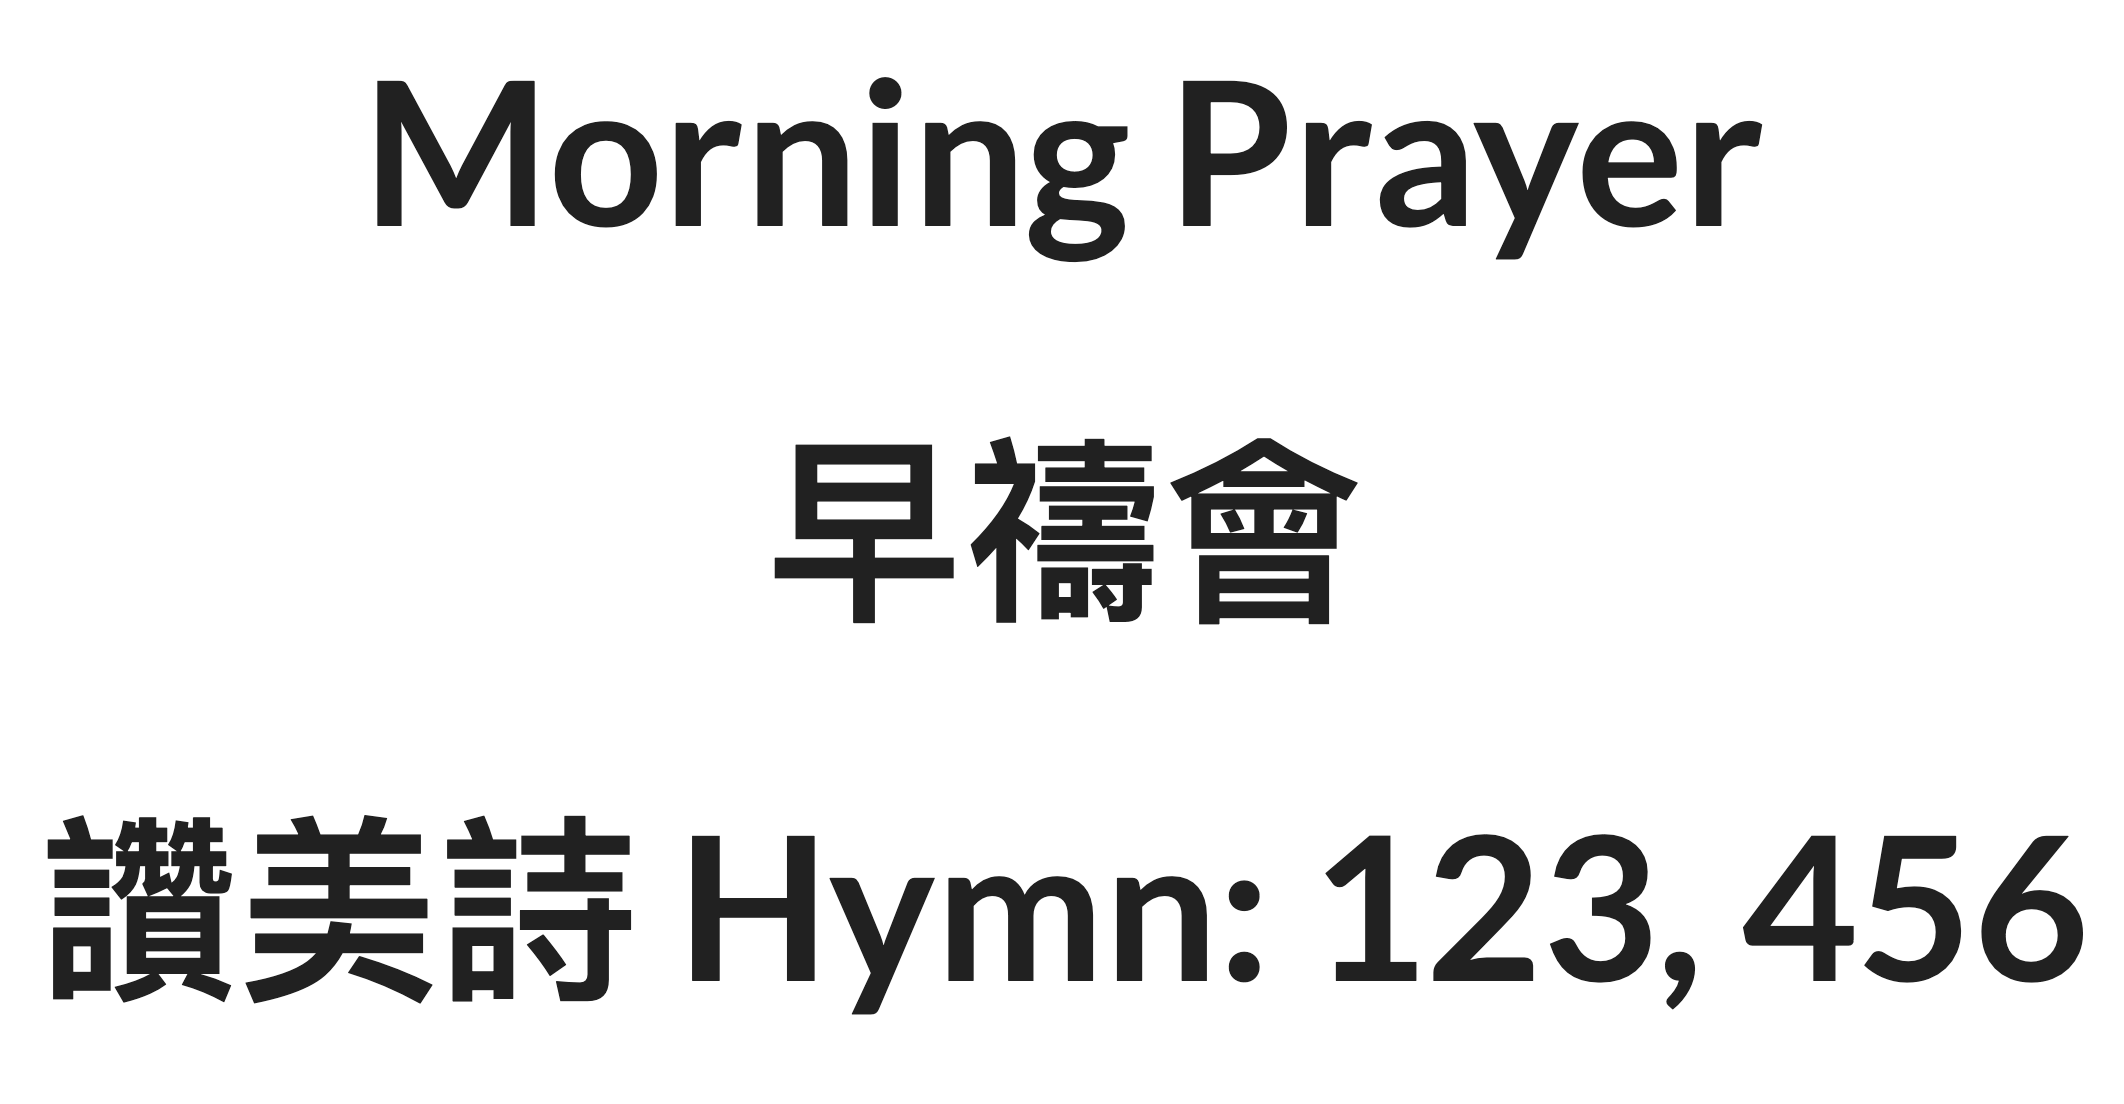
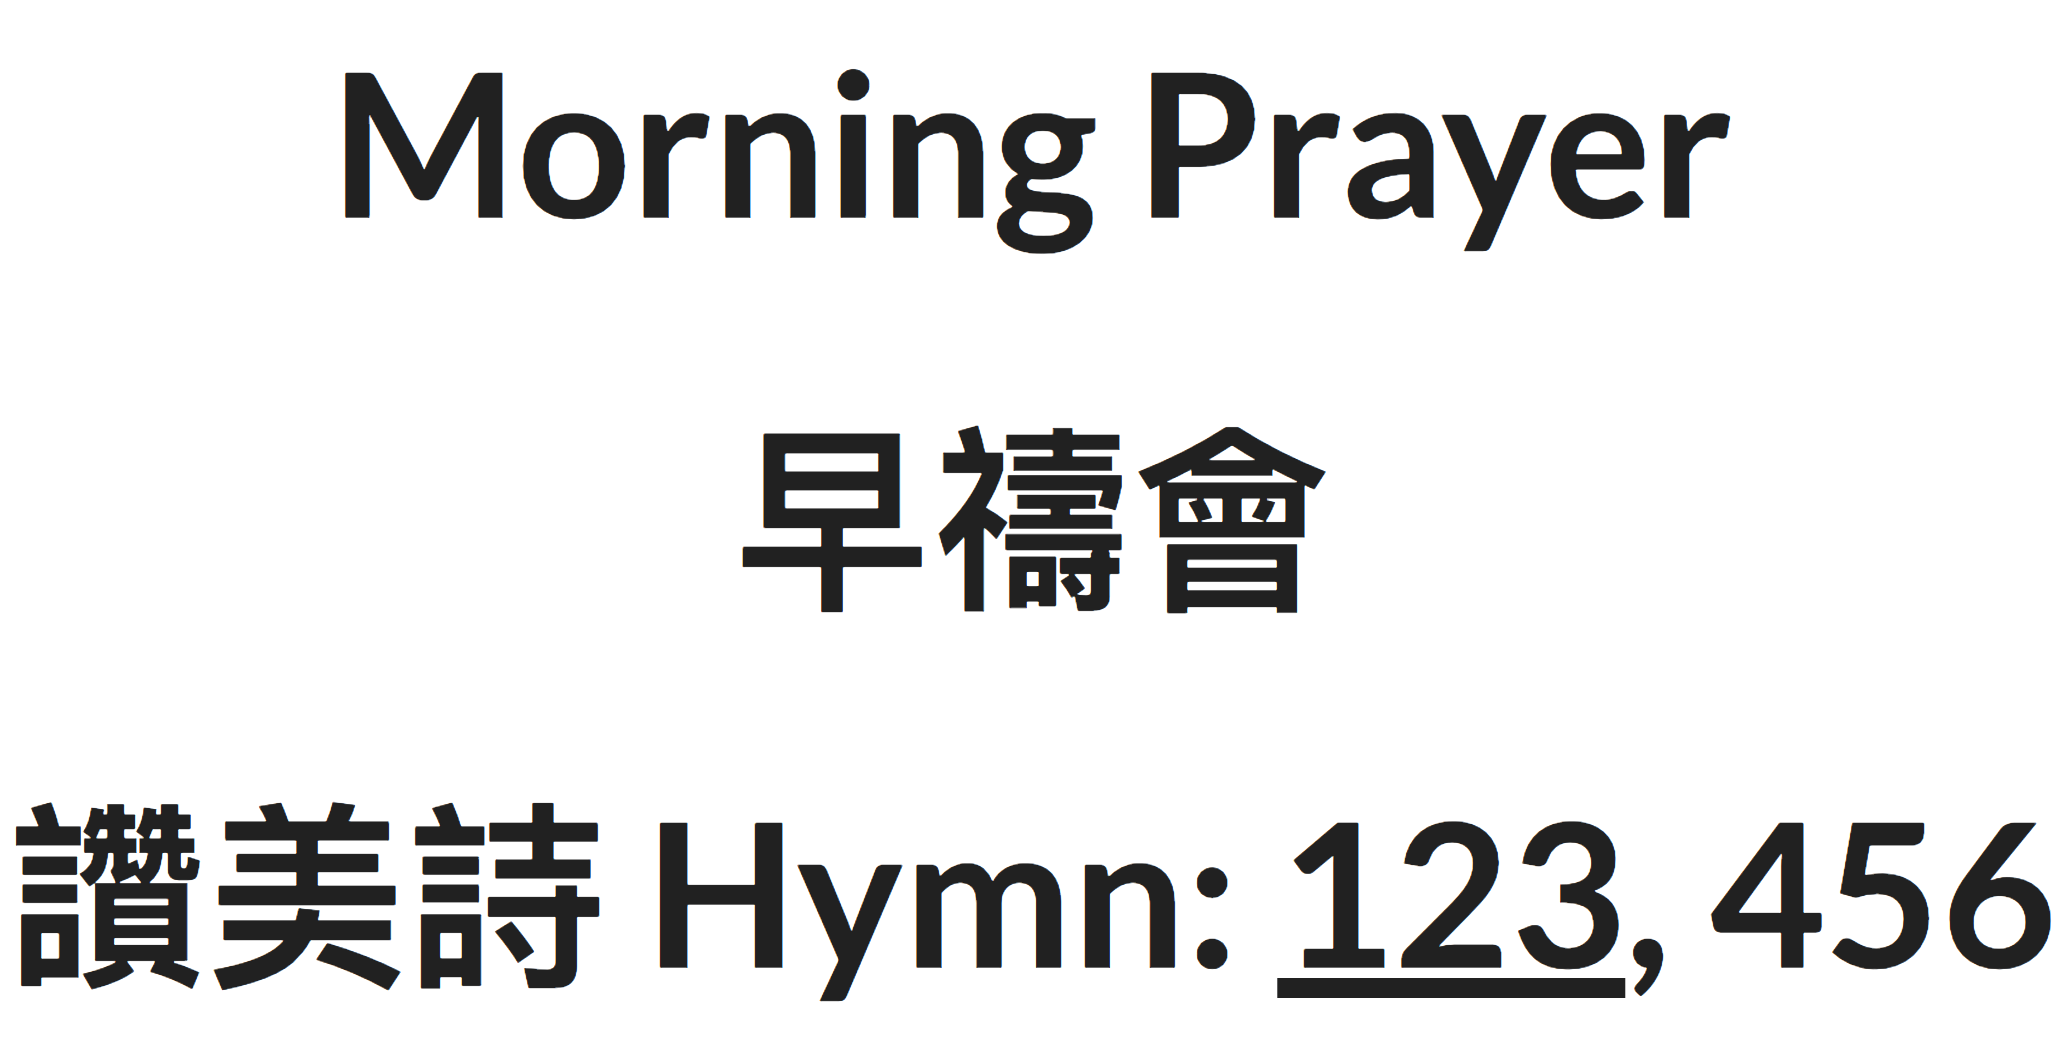
update how-to (tabs and "hymn scroll") #46

diff --git a/templates/how-to.html b/templates/how-to.html
@@ -63,12 +63,19 @@
     <h2><a id="morning-prayer" href="#">During Morning Prayer:</a></h2>
     <img class="ui floated right medium bordered rounded image" src="static/instructions/morning-prayer-button.png">
     <ol>
-      <li>Type in the <strong>hymn numbers</strong>.</li>
+      <li>Go to the "Utility" tab<img class="ui small rounded image" src="static/instructions/utility-tab.png"></li>
+      <li>Type in <strong>hymn numbers</strong> next to the button labelled "Morning Prayer".</li>
       <li>Hit the <strong>"Morning Prayer"</strong> button.</li>
-      <li>Go to the projection page to see it update live (example: <em>http://127.0.0.1:9000/toronto</em>). Otherwise hit the <img src="static/instructions/new-window.png" alt="New Window" title="New Window" style="width:90px;" align="top"> button.</li>
+      <li>Go to the projection page to see it update live (example: <em>http://127.0.0.1:9000/toronto</em>). Otherwise go back to the "Main" tab and hit the <img src="static/instructions/new-window.png" alt="New Window" title="New Window" style="width:90px;" align="top"> button.</li>
     </ol>
     <p>
       The projection page should look something like this: <img class="ui medium bordered rounded image" src="static/instructions/morning-prayer-projection.png" style="box-shadow: 0 1px 2px 0 rgba(34,36,38,.15);">
+    </p>
+    <p>
+      You can mark the current hymn with an underline by pressing on <img src="static/instructions/hymn-underline-button.png" alt="Hymn Scroll" title="Hymn Scroll" style="width:80px;" align="top">.
+    </p>
+    <p>
+      Click <img src="static/instructions/hymn-underline-button.png" alt="Hymn Scroll" title="Hymn Scroll" style="width:80px;" align="top"> multiple times to loop back to the beginning (or to have none underlined).
     </p>
 
     <h4 class="ui header center aligned">
@@ -79,12 +86,19 @@
     <h2><a id="hymn-singing" href="#">During Hymn Singing:</a></h2>
     <img class="ui floated right medium bordered rounded image" src="static/instructions/hymn-singing-button.png">
     <ol>
-      <li>Type in the <strong>hymn numbers</strong>.</li>
-      <li>Hit the <strong>"Hymns Singing"</strong> button.</li>
+      <li>Go to the "Utility" tab<img class="ui small rounded image" src="static/instructions/utility-tab.png"></li>
+      <li>Type in <strong>hymn numbers</strong> next to the button labelled "Hymn Singing".</li>
+      <li>Hit the <strong>"Hymn Singing"</strong> button.</li>
       <li>Go to the projection page to see it update live (example: <em>http://127.0.0.1:9000/toronto</em>). Otherwise hit the <img src="static/instructions/new-window.png" alt="New Window" title="New Window" style="width:90px;" align="top"> button.</li>
     </ol>
     <p>
       The projection page should look something like this: <img class="ui medium bordered rounded image" src="static/instructions/hymn-singing-projection.png" style="box-shadow: 0 1px 2px 0 rgba(34,36,38,.15);">
+    </p>
+    <p>
+      You can mark the current hymn with an underline by pressing on <img src="static/instructions/hymn-underline-button.png" alt="Hymn Scroll" title="Hymn Scroll" style="width:80px;" align="top">.
+    </p>
+    <p>
+      Click <img src="static/instructions/hymn-underline-button.png" alt="Hymn Scroll" title="Hymn Scroll" style="width:80px;" align="top"> multiple times to loop back to the beginning (or to have none underlined).
     </p>
   
     <h4 class="ui header center aligned">
@@ -95,15 +109,17 @@
     <h2><a id="service" href="#">During Service:</a></h2>
     <img class="ui floated right medium bordered rounded image" src="static/instructions/service-main.png">
     <ol>
+      <li>Go to the "Main" tab<img class="ui small rounded image" src="static/instructions/main-tab.png"></li>
       <li>Type in the <strong>English Title</strong>.</li>
       <li>Type in the <strong>Chinese Title</strong>.</li>
       <li>Type in the <strong>Hymns</strong>.</li>
+      <li>Hit the <strong>"Submit"</strong> button.</li>
       <li>Go to the projection page to see it update live (example: <em>http://127.0.0.1:9000/toronto</em>). Otherwise hit the <img src="static/instructions/new-window.png" alt="New Window" title="New Window" style="width:90px;" align="top"> button.</li>
     </ol>
     <p>During service, you can enter a <strong>verse</strong>:</p>
     <ol>
-      <li>In the 1<sup>st</sup> box, type/select a <strong>book</strong> (e.g.: Genesis).</li>
-      <li>In the 2<sup>nd</sup> box, type the <strong>chapter/verse</strong> (e.g.: 1:1).</li>
+      <li>Next to "Verse:", enter a <strong>book</strong> (e.g.: Genesis).</li>
+      <li>Next to "Passage", enter the <strong>chapter/verse</strong> (e.g.: 1:1).</li>
       <li>Hit the <img src="static/instructions/update.png" alt="Update" title="Update" style="width:65px;" align="top"> button to update the display.</li>
     </ol>
 
@@ -116,10 +132,11 @@
     <img class="ui floated right medium bordered rounded image" src="static/instructions/verse-display-on.png" alt="Verse Display On" title="Verse Display On">
     <p>Off by default. "Verse Display" lets you show the actual words in the Bible verse(s) on the projection screen.</p>
     <ol>
+      <li>Go to the "Utility" tab<img class="ui small rounded image" src="static/instructions/utility-tab.png"></li>
       <li>To enable or disable Verse Display, click on the <strong>toggle button</strong> so that it says <span class="green">"On"</span> or <span class="red">"Off"</span>.</li>
       <li>Hit the <img src="static/instructions/update.png" alt="Update" title="Update" style="width:65px;" align="top"> button to update the display.</li>
       <li>Go to the projection page to see it update (example: <em>http://127.0.0.1:9000/toronto</em>). Otherwise hit the <img src="static/instructions/new-window.png" alt="New Window" title="New Window" style="width:90px;" align="top"> button.</li>
-      <li>Hit the <strong>spacebar</strong> button on your keyboard to show/hide the verse overlay.</li>
+      <li>(While on the projection page:) Hit the <strong>spacebar</strong> button on your keyboard to show/hide the verse overlay.</li>
     </ol>
     <br/>
   </div>
